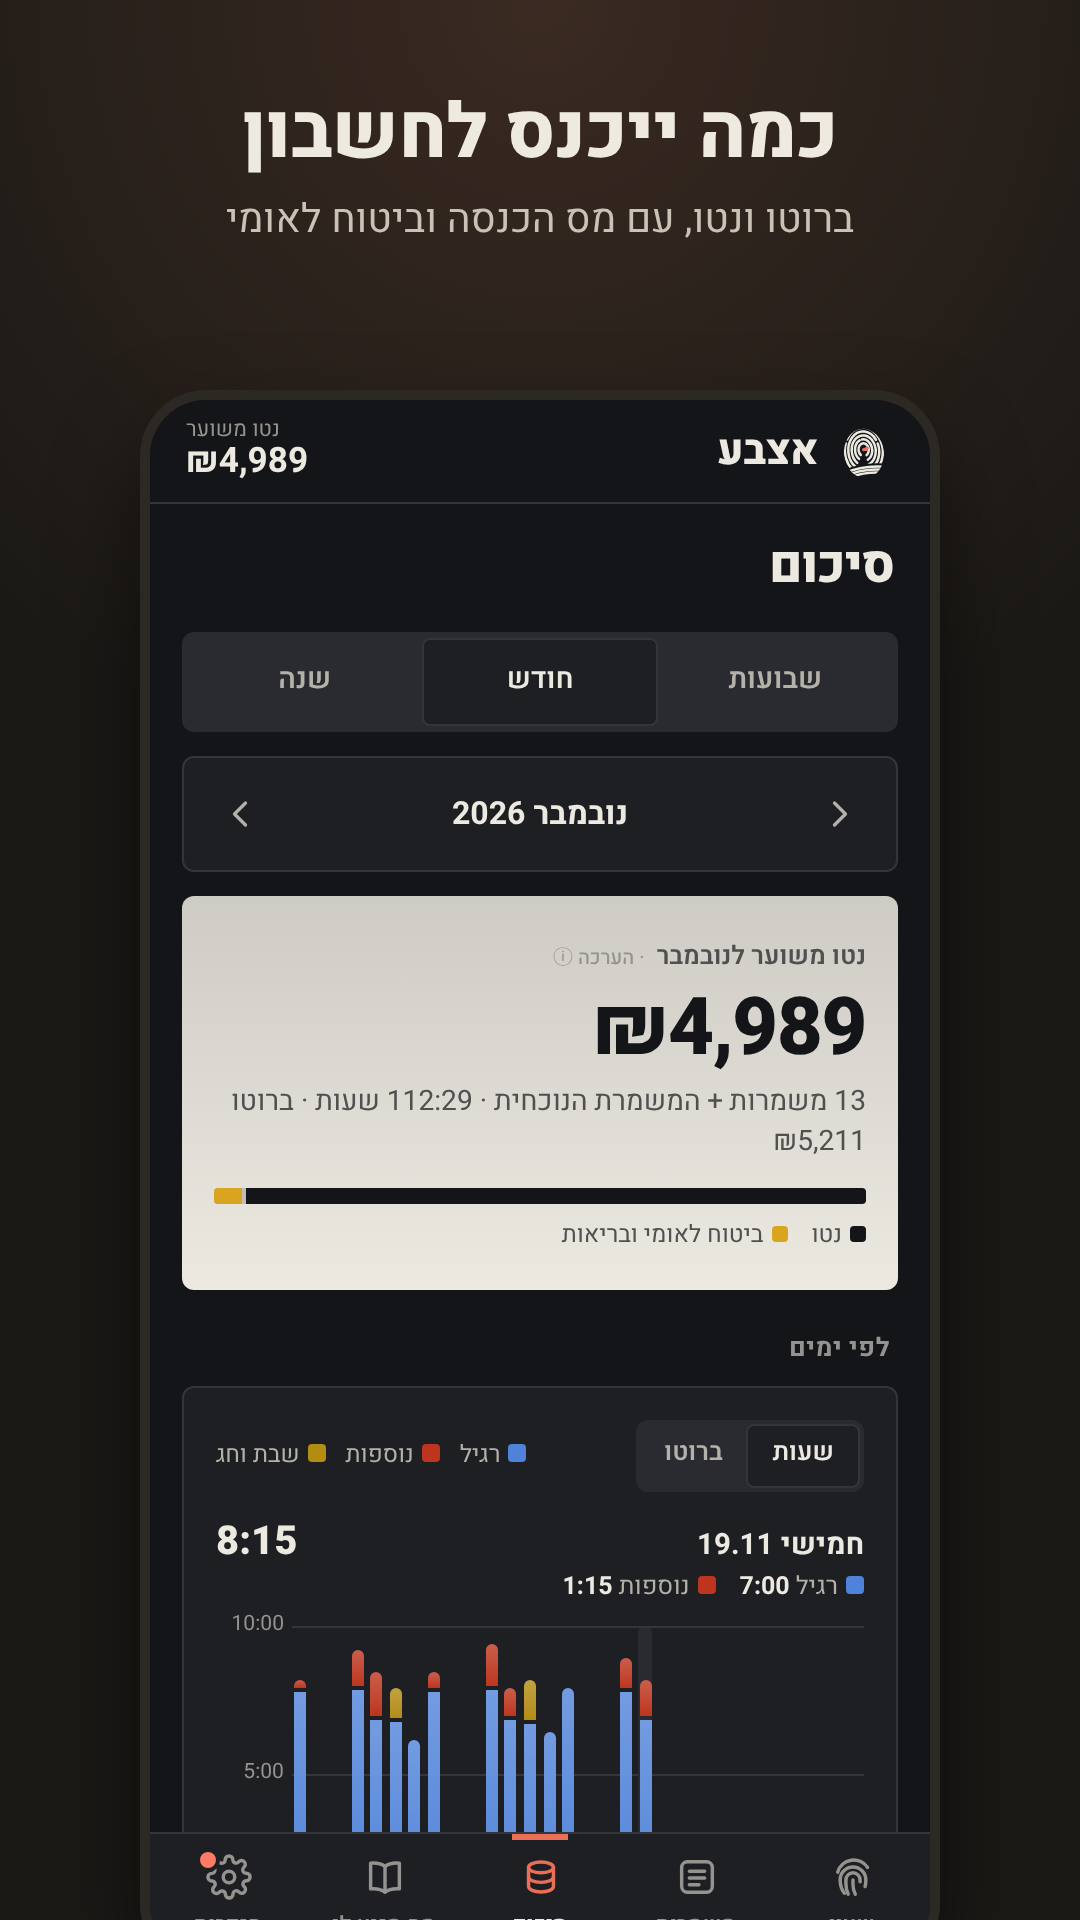
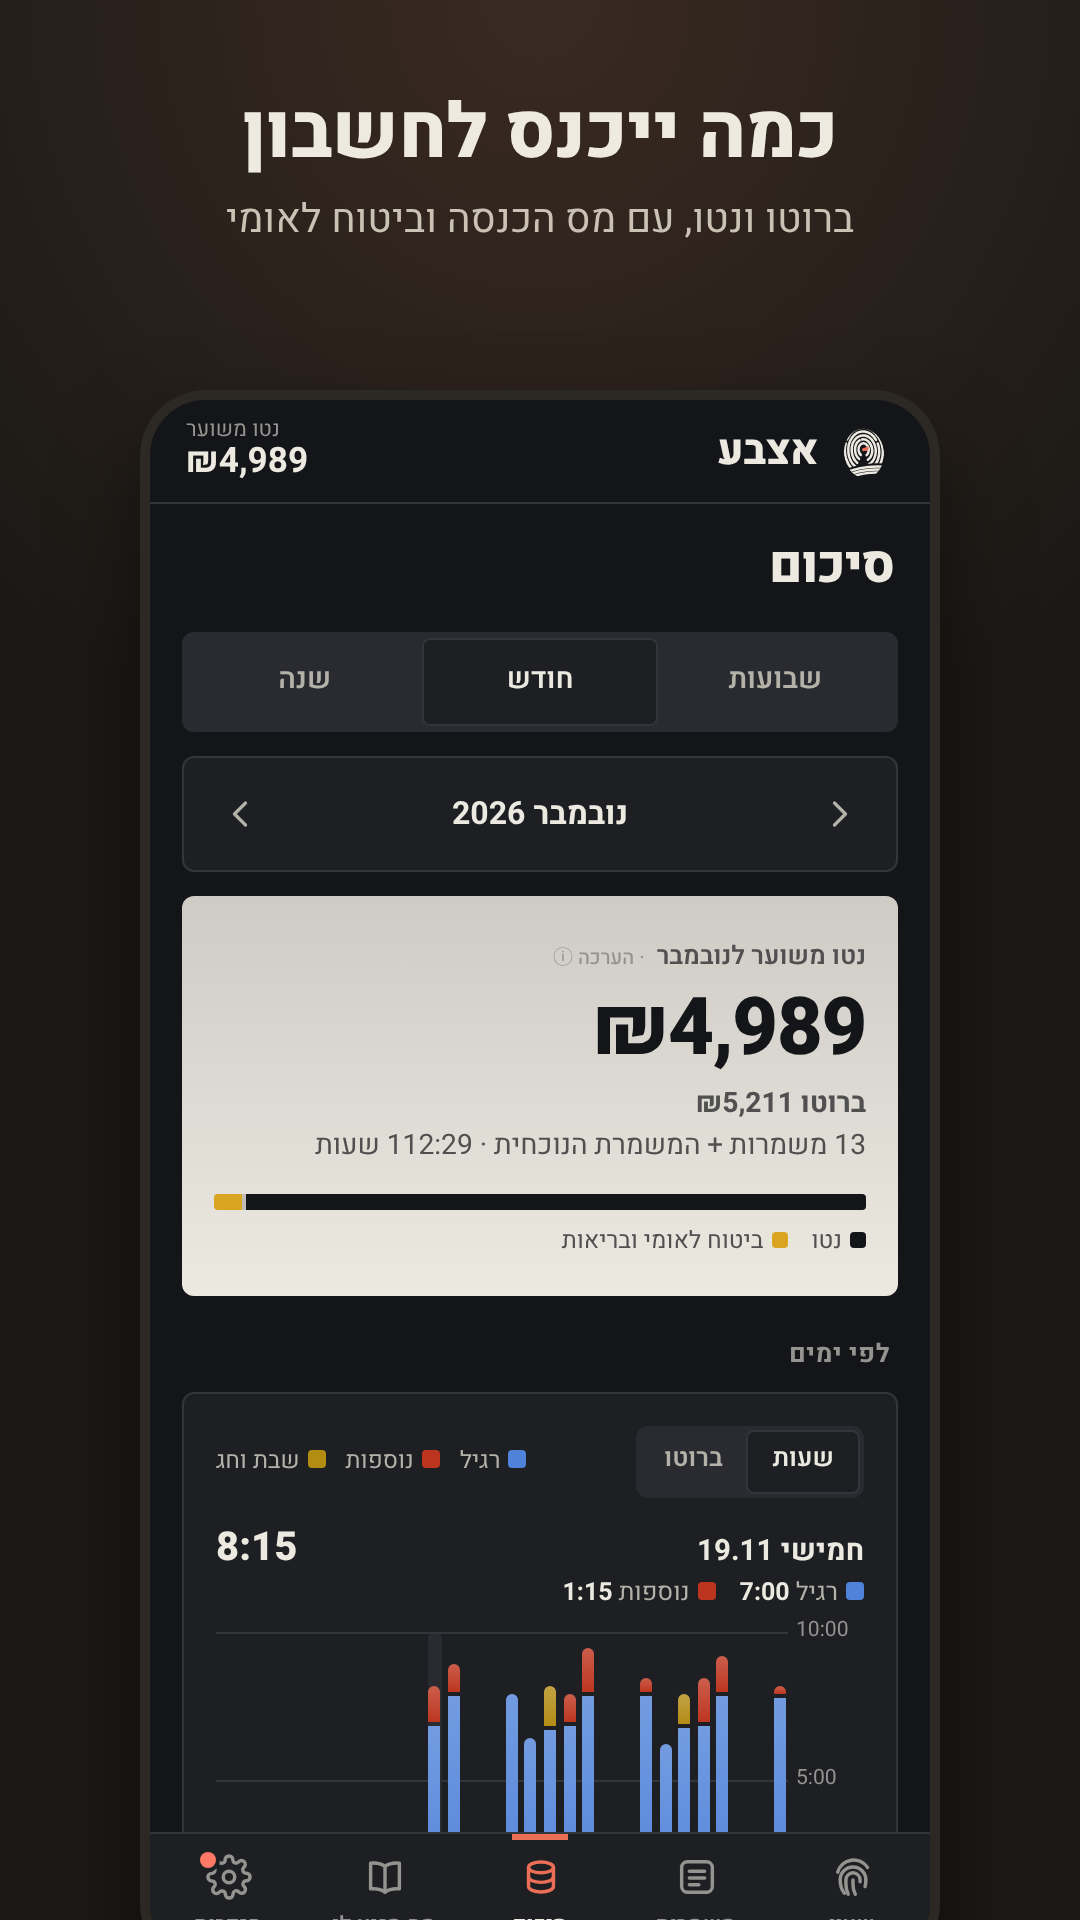
Polish: days and charts run right to left in Hebrew, steady two-line shift rows, quiet kind tiles, edge fades, summary card layout, break row, app-vs-web storage note; fix day picker across a clock change

diff --git a/js/app.js b/js/app.js
@@ -244,14 +244,14 @@ function shiftRow(s) {
   const job = jobById(s.jobId), p = PAY.get(s.id); if (!p) return '';
   const k = shiftKind(s, p), d = new Date(s.start);
   const pills = [
-    p.otHours > 0.01 ? `<span class="pill ot">+${hm(p.otHours)} נוספות</span>` : '',
     p.restHours > 0.01 ? `<span class="pill rest">${esc(p.names[0])}</span>` : '',
-    S.jobs.length > 1 ? `<span class="pill jobp"><i style="background:${job.color}"></i>${esc(job.name)}</span>` : '',
+    p.otHours > 0.01 ? `<span class="pill ot">+${hm(p.otHours)} נוספות</span>` : '',
   ].join('');
+  const second = [S.jobs.length > 1 ? `<span class="jobp"><i style="background:${job.color}"></i>${esc(job.name)}</span>` : esc(KIND_NAME[k]), s.note ? esc(s.note) : ''].filter(Boolean);
   return `<button class="srow" data-id="${s.id}">
     <span class="kic k-${k}" title="${KIND_NAME[k]}">${I[k]}</span>
     <span class="mid"><span class="t1">${DAYS[d.getDay()]} ${dShort(d)} ${pills}</span>
-      <span class="t2 num tline"><bdi dir="ltr" class="trange">${tm(s.start)}–${tm(s.end)}</bdi><span class="tmore"> · ${KIND_NAME[k]}${s.note ? ' · ' + esc(s.note) : ''}</span></span></span>
+      <span class="t2 num tline"><bdi dir="ltr" class="trange">${tm(s.start)}–${tm(s.end)}</bdi><span class="tmore">${second.map(x => `<span class="sep">·</span>${x}`).join('')}</span></span></span>
     <span class="end"><span class="amt num">${money(p.pay)}</span><br><span class="t2 num">${hm(p.hours)} ש׳</span></span></button>`;
 }
 function bindRows(root) { $$('.srow', root).forEach(r => r.onclick = () => openShiftSheet(index().byId.get(r.dataset.id), 'edit')); }
@@ -470,7 +470,9 @@ function openShiftSheet(sh, mode) {
   const sub = mode === 'end' ? `${esc(job.name)} · אם שכחת להחתים בזמן, אפשר לתקן את השעות.` : '';
   const d0 = new Date(Math.min(+today - 45 * 864e5, +T.date - 3 * 864e5)), d1 = new Date(Math.max(+today + 7 * 864e5, +T.date + 3 * 864e5));
   let days = '';
-  for (let d = new Date(d1); d >= d0; d.setDate(d.getDate() - 1)) {
+  // oldest first: in Hebrew the days run right to left, like reading
+  d0.setHours(0, 0, 0, 0); d1.setHours(0, 0, 0, 0);   // whole days, also across a clock change
+  for (let d = new Date(d0); d <= d1; d.setDate(d.getDate() + 1)) {
     const diff = Math.round((today - d) / 864e5);
     days += `<button type="button" class="day${d.getDay() === 6 ? ' sat' : ''}" data-d="${+d}"><small>${diff === 0 ? 'היום' : diff === 1 ? 'אתמול' : DAY_SHORT[d.getDay()]}</small><b class="num">${d.getDate()}</b><em class="num">${MONTHS[d.getMonth()].slice(0, 3)}${EN ? '' : '׳'}</em></button>`;
   }
@@ -551,7 +553,10 @@ function openShiftSheet(sh, mode) {
     $$('input', root).forEach(i => i.addEventListener('input', upd));
     upd();
     for (const id in W) setWheel(id, false);
-    $('.day.on', root)?.scrollIntoView({ inline: 'center', block: 'nearest' });
+    // bring the chosen day to the middle of the strip (works the same right-to-left and left-to-right)
+    const centerDay = () => { const st = $('#f-days', root), on = $('.day.on', root); if (!st || !on) return;
+      const a = on.getBoundingClientRect(), b = st.getBoundingClientRect(); st.scrollLeft += (a.left + a.width / 2) - (b.left + b.width / 2); };
+    centerDay(); requestAnimationFrame(() => requestAnimationFrame(centerDay)); setTimeout(centerDay, 350);
     $('#f-save', root).onclick = () => {
       const s = read(), len = new Date(s.end) - new Date(s.start);
       if (len < 6e4) { $$('.wheels', root).forEach(w => w.classList.add('bad')); return toast('המשמרת קצרה מדי. אפשר לבטל אותה', 'err'); }
@@ -683,7 +688,7 @@ function sumMonth(el) {
   const hol = holidaysOfGregorianYear(viewY).filter(h => h.date.getMonth() === viewM);
   el.innerHTML = `${monthBar()}
     <div class="card hero" style="margin-top:12px"><small>נטו משוער ל${MONTHS[viewM]}<button type="button" class="estimate" data-legal aria-label="הערכה: מה החישוב כן ולא">הערכה ⓘ</button></small><div class="big num">${money(n.net)}</div>
-      <div class="meta num">${M.shifts.length} משמרות${M.live ? ' + המשמרת הנוכחית' : ''} · ${hm(M.hours)} שעות · ברוטו ${money(M.gross)}</div>
+      <div class="meta num"><b>ברוטו ${money(M.gross)}</b><br>${M.shifts.length} משמרות${M.live ? ' + המשמרת הנוכחית' : ''} · ${hm(M.hours)} שעות</div>
       ${M.gross ? `<div class="stack">${parts.map(([v, c]) => `<span style="flex:${v};background:${c}"></span>`).join('')}</div>
       <div class="legend">${parts.map(([, c, l]) => `<span><i style="background:${c}"></i>${l}</span>`).join('')}</div>` : ''}</div>
     ${M.gross ? `
@@ -700,7 +705,7 @@ function sumMonth(el) {
     </div>
     <div class="sec"><span>פירוט שעות ותוספות</span></div>
     ${M.perJob.map(J => `<div class="card">
-      ${S.jobs.length > 1 ? `<div class="ln"><span class="l" style="color:${J.job.color};font-weight:700">${esc(J.job.name)}</span><span class="v num">₪${J.job.rate}/ש׳</span></div>` : ''}
+      ${S.jobs.length > 1 ? `<div class="ln"><span class="l" style="color:${J.job.color};font-weight:700">${esc(J.job.name)}</span><span class="v num mutedv">₪${J.job.rate} לשעה</span></div>` : ''}
       ${TIERS.filter(k => J.b[k] > 0.004).map(k => L(tierLabel(k, J.job), money2(J.money[k]), '', `${hm(J.b[k])} ש׳`)).join('')}
       ${J.travel ? L('נסיעות', money2(J.travel), '', `${J.count} משמרות`) : ''}
       ${J.bonus ? L('טיפים ובונוסים', money2(J.bonus)) : ''}
@@ -751,7 +756,7 @@ function mountChart(el, items, sel) {
   const max = niceMax(Math.max(...items.map(tot), met === 'm' ? 100 : 1));
   const read = i => { const it = items[i]; return `<div class="c-r1"><b>${it.title}</b><span class="num c-tot">${fmt(tot(it))}</span></div><div class="c-parts">${GROUPS.map((g, j) => it[met][j] > 0.004 ? `<span><i class="cg${j}"></i>${g} <b class="num">${fmt(it[met][j])}</b></span>` : '').join('') || '<span>אין משמרות</span>'}</div>`; };
   el.innerHTML = `<div class="c-read">${read(sel)}</div>
-    <div class="c-plot" dir="ltr"><div class="c-grid">${[1, .5, 0].map(f => `<span style="bottom:${f * 100}%"><em class="num">${fmt(max * f)}</em></span>`).join('')}</div>
+    <div class="c-plot"><div class="c-grid">${[1, .5, 0].map(f => `<span style="bottom:${f * 100}%"><em class="num">${fmt(max * f)}</em></span>`).join('')}</div>
     <div class="c-bars${items.length > 14 ? ' thin' : ''}">${items.map((it, i) => {
       const parts = it[met], last = parts.reduce((a, v, j) => v > 0.004 ? j : a, -1);
       return `<button class="c-col${i === sel ? ' on' : ''}" data-i="${i}" aria-label="${it.title}"><span class="c-stack" style="height:${tot(it) / max * 100}%">${parts.map((v, j) => v > 0.004 ? `<i class="cg${j}${j === last ? ' top' : ''}" style="flex:${v}"></i>` : '').join('')}</span><em class="num">${it.label ?? ''}</em></button>`;
@@ -1357,7 +1362,9 @@ function summarize(d) {
 }
 /** Where the data lives right now, in plain words. */
 function storeNote() {
-  return `${I.info}<span>הנתונים נשמרים <b>רק בטלפון הזה</b>, בלי חשבון ובלי שרת. מחיקת האפליקציה או ניקוי נתוני האתר בדפדפן מוחקים אותם. כדי לעבור לטלפון חדש: גיבוי מלא כאן, ואז "שחזור" בטלפון החדש. <span id="persistLine"></span></span>`;
+  return native.NATIVE
+    ? `${I.info}<span>הנתונים נשמרים <b>רק בטלפון הזה</b>, בלי חשבון ובלי שרת. מחיקת האפליקציה מוחקת אותם, אז כדאי לגבות מדי פעם. כדי לעבור לטלפון חדש: גיבוי מלא כאן, ואז ״שחזור״ בטלפון החדש.</span>`
+    : `${I.info}<span>הנתונים נשמרים <b>רק בדפדפן הזה</b>, בלי חשבון ובלי שרת. ניקוי נתוני האתר מוחק אותם. כדי לעבור למכשיר אחר: גיבוי מלא כאן, ואז ״שחזור״ במכשיר החדש. <span id="persistLine"></span></span>`;
 }
 
 function openImport() {

diff --git a/style.css b/style.css
@@ -755,3 +755,36 @@ button.estimate{font-family:inherit;cursor:pointer;background:none;color:inherit
 .pill.ot{color:var(--accent-ink,var(--accent))!important}
 .estimate,button.estimate{border:0!important;padding:0!important;margin-inline-start:6px;font-size:.78em!important;font-weight:500!important;color:var(--ink3)!important;letter-spacing:0!important;vertical-align:baseline!important;background:none!important}
 .estimate::before{content:'· '}
+
+/* ---- polish ---- */
+/* shift rows: two steady lines, the same in every row */
+.srow .t1{flex-wrap:nowrap;white-space:nowrap;overflow:hidden}
+.srow .t1 .pill{flex:none}
+.srow .tline{align-items:center}
+.srow .tmore{display:flex;align-items:center;min-width:0}
+.srow .tmore .sep{margin:0 6px;color:var(--ink3)}
+.srow .jobp{display:inline-flex;align-items:center;gap:5px;color:var(--ink2);white-space:nowrap}
+.srow .jobp i{width:7px;height:7px;border-radius:50%;flex:none}
+/* every kind of shift gets the same quiet tile; the icon colour tells them apart */
+.kic,.k-night.kic,.k-shabbat.kic,.k-chag.kic{background:var(--surface2)!important;color:var(--kc)!important;box-shadow:none!important}
+.k-night.kic{color:var(--k-night)!important}
+/* sideways-scrolling rows fade at the edges instead of cutting a chip in half */
+.chips,.daystrip,#f-pre{-webkit-mask-image:linear-gradient(90deg,transparent 0,#000 18px,#000 calc(100% - 18px),transparent 100%);mask-image:linear-gradient(90deg,transparent 0,#000 18px,#000 calc(100% - 18px),transparent 100%);padding-inline:14px;margin-inline:-14px}
+#f-pre{flex-wrap:nowrap;overflow-x:auto;scrollbar-width:none}
+#f-pre::-webkit-scrollbar,.chips::-webkit-scrollbar,.daystrip::-webkit-scrollbar{display:none}
+#f-pre button{flex:none}
+/* break: the minutes box sits in the same row as the presets */
+#f-bq,#j-brk{flex-wrap:nowrap}
+#f-bq button,#j-brk button{flex:1;padding:0 4px;min-width:0;white-space:nowrap;font-size:.8rem}
+#f-bq .input.mini{flex:none;width:64px}
+/* summary card: gross on its own line */
+.hero .meta{line-height:1.5}.hero .meta b{font-weight:700}
+.ln .mutedv{color:var(--ink3);font-weight:600}
+/* the live status line: icon right next to the words */
+#pTier{display:flex;flex-direction:column;align-items:center}
+#pTier .tier{justify-content:center;text-align:center}
+
+/* the day chart follows the reading direction: day 1 on the right in Hebrew, on the left in English */
+.c-plot{padding:0 0 22px 0;padding-inline-start:38px}
+.c-grid{inset:0 0 22px 0;inset-inline-start:38px}
+.c-grid em{left:auto;inset-inline-start:-38px;text-align:end}

diff --git a/languages/en.js b/languages/en.js
@@ -17,6 +17,10 @@ export default {
   months: ['January', 'February', 'March', 'April', 'May', 'June', 'July', 'August', 'September', 'October', 'November', 'December'],
 
   phrases: {
+    ', בלי חשבון ובלי שרת. מחיקת האפליקציה מוחקת אותם, אז כדאי לגבות מדי פעם. כדי לעבור לטלפון חדש: גיבוי מלא כאן, ואז ״שחזור״ בטלפון החדש.': ', with no account and no server. Uninstalling the app deletes it, so back up now and then. To move to a new phone: full backup here, then "Restore" on the new phone.',
+    'רק בדפדפן הזה': 'only in this browser',
+    ', בלי חשבון ובלי שרת. ניקוי נתוני האתר מוחק אותם. כדי לעבור למכשיר אחר: גיבוי מלא כאן, ואז ״שחזור״ במכשיר החדש.': ', with no account and no server. Clearing site data deletes it. To move to another device: full backup here, then "Restore" on the new one.',
+
     'שמים אצבע כדי להתחיל': 'Tap to start',
     'במשמרת': 'On shift',
     'מתחילה ב־': 'starts ',
@@ -213,6 +217,8 @@ export default {
   'מתוך 42 ש׳': 'of 42 h this week'
   },
   templates: [
+    ['{} משמרות + המשמרת הנוכחית · {} שעות', '{1} shifts + the current one · {2} hours'],
+    ['₪{} לשעה', '₪{1} per hour'],
     ['יצירת קשר · {}', 'Contact · {1}'],
     ['שוחזרו {} משמרות מהעותק השמור בטלפון', 'Restored {1} shifts from the copy saved on the phone'],
     ['התראה הבאה ב־{}', 'Next notification at {1}'],
